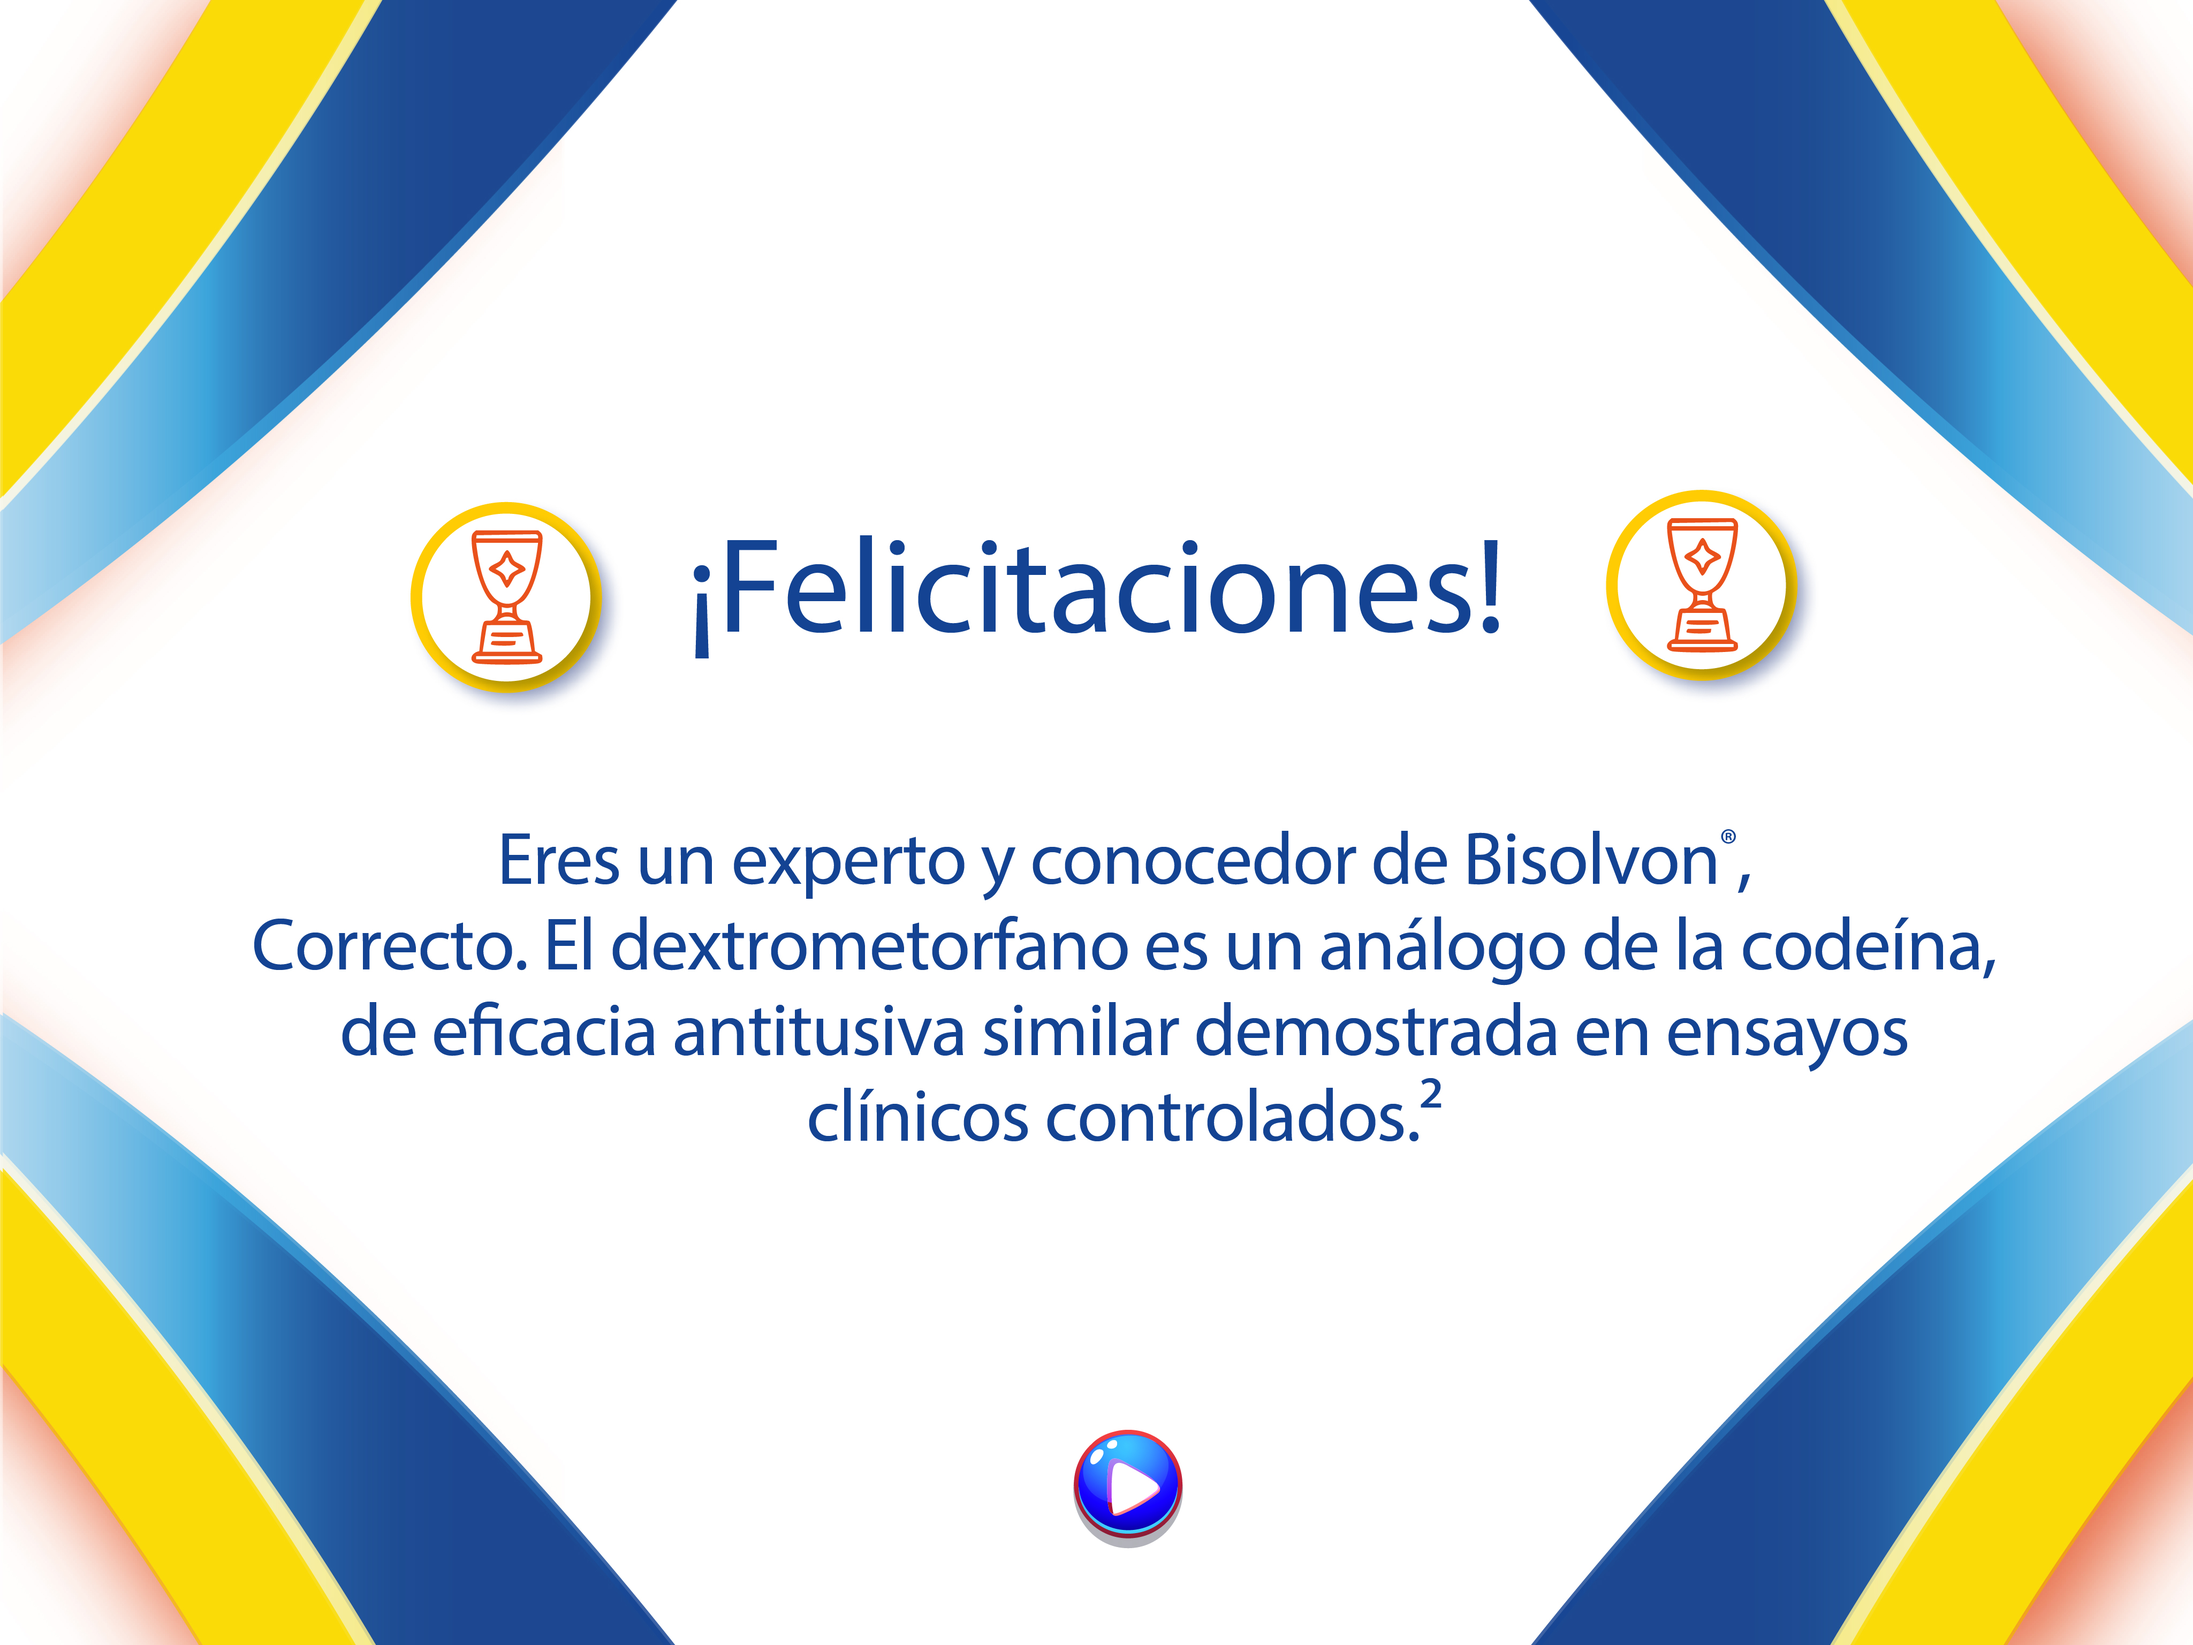
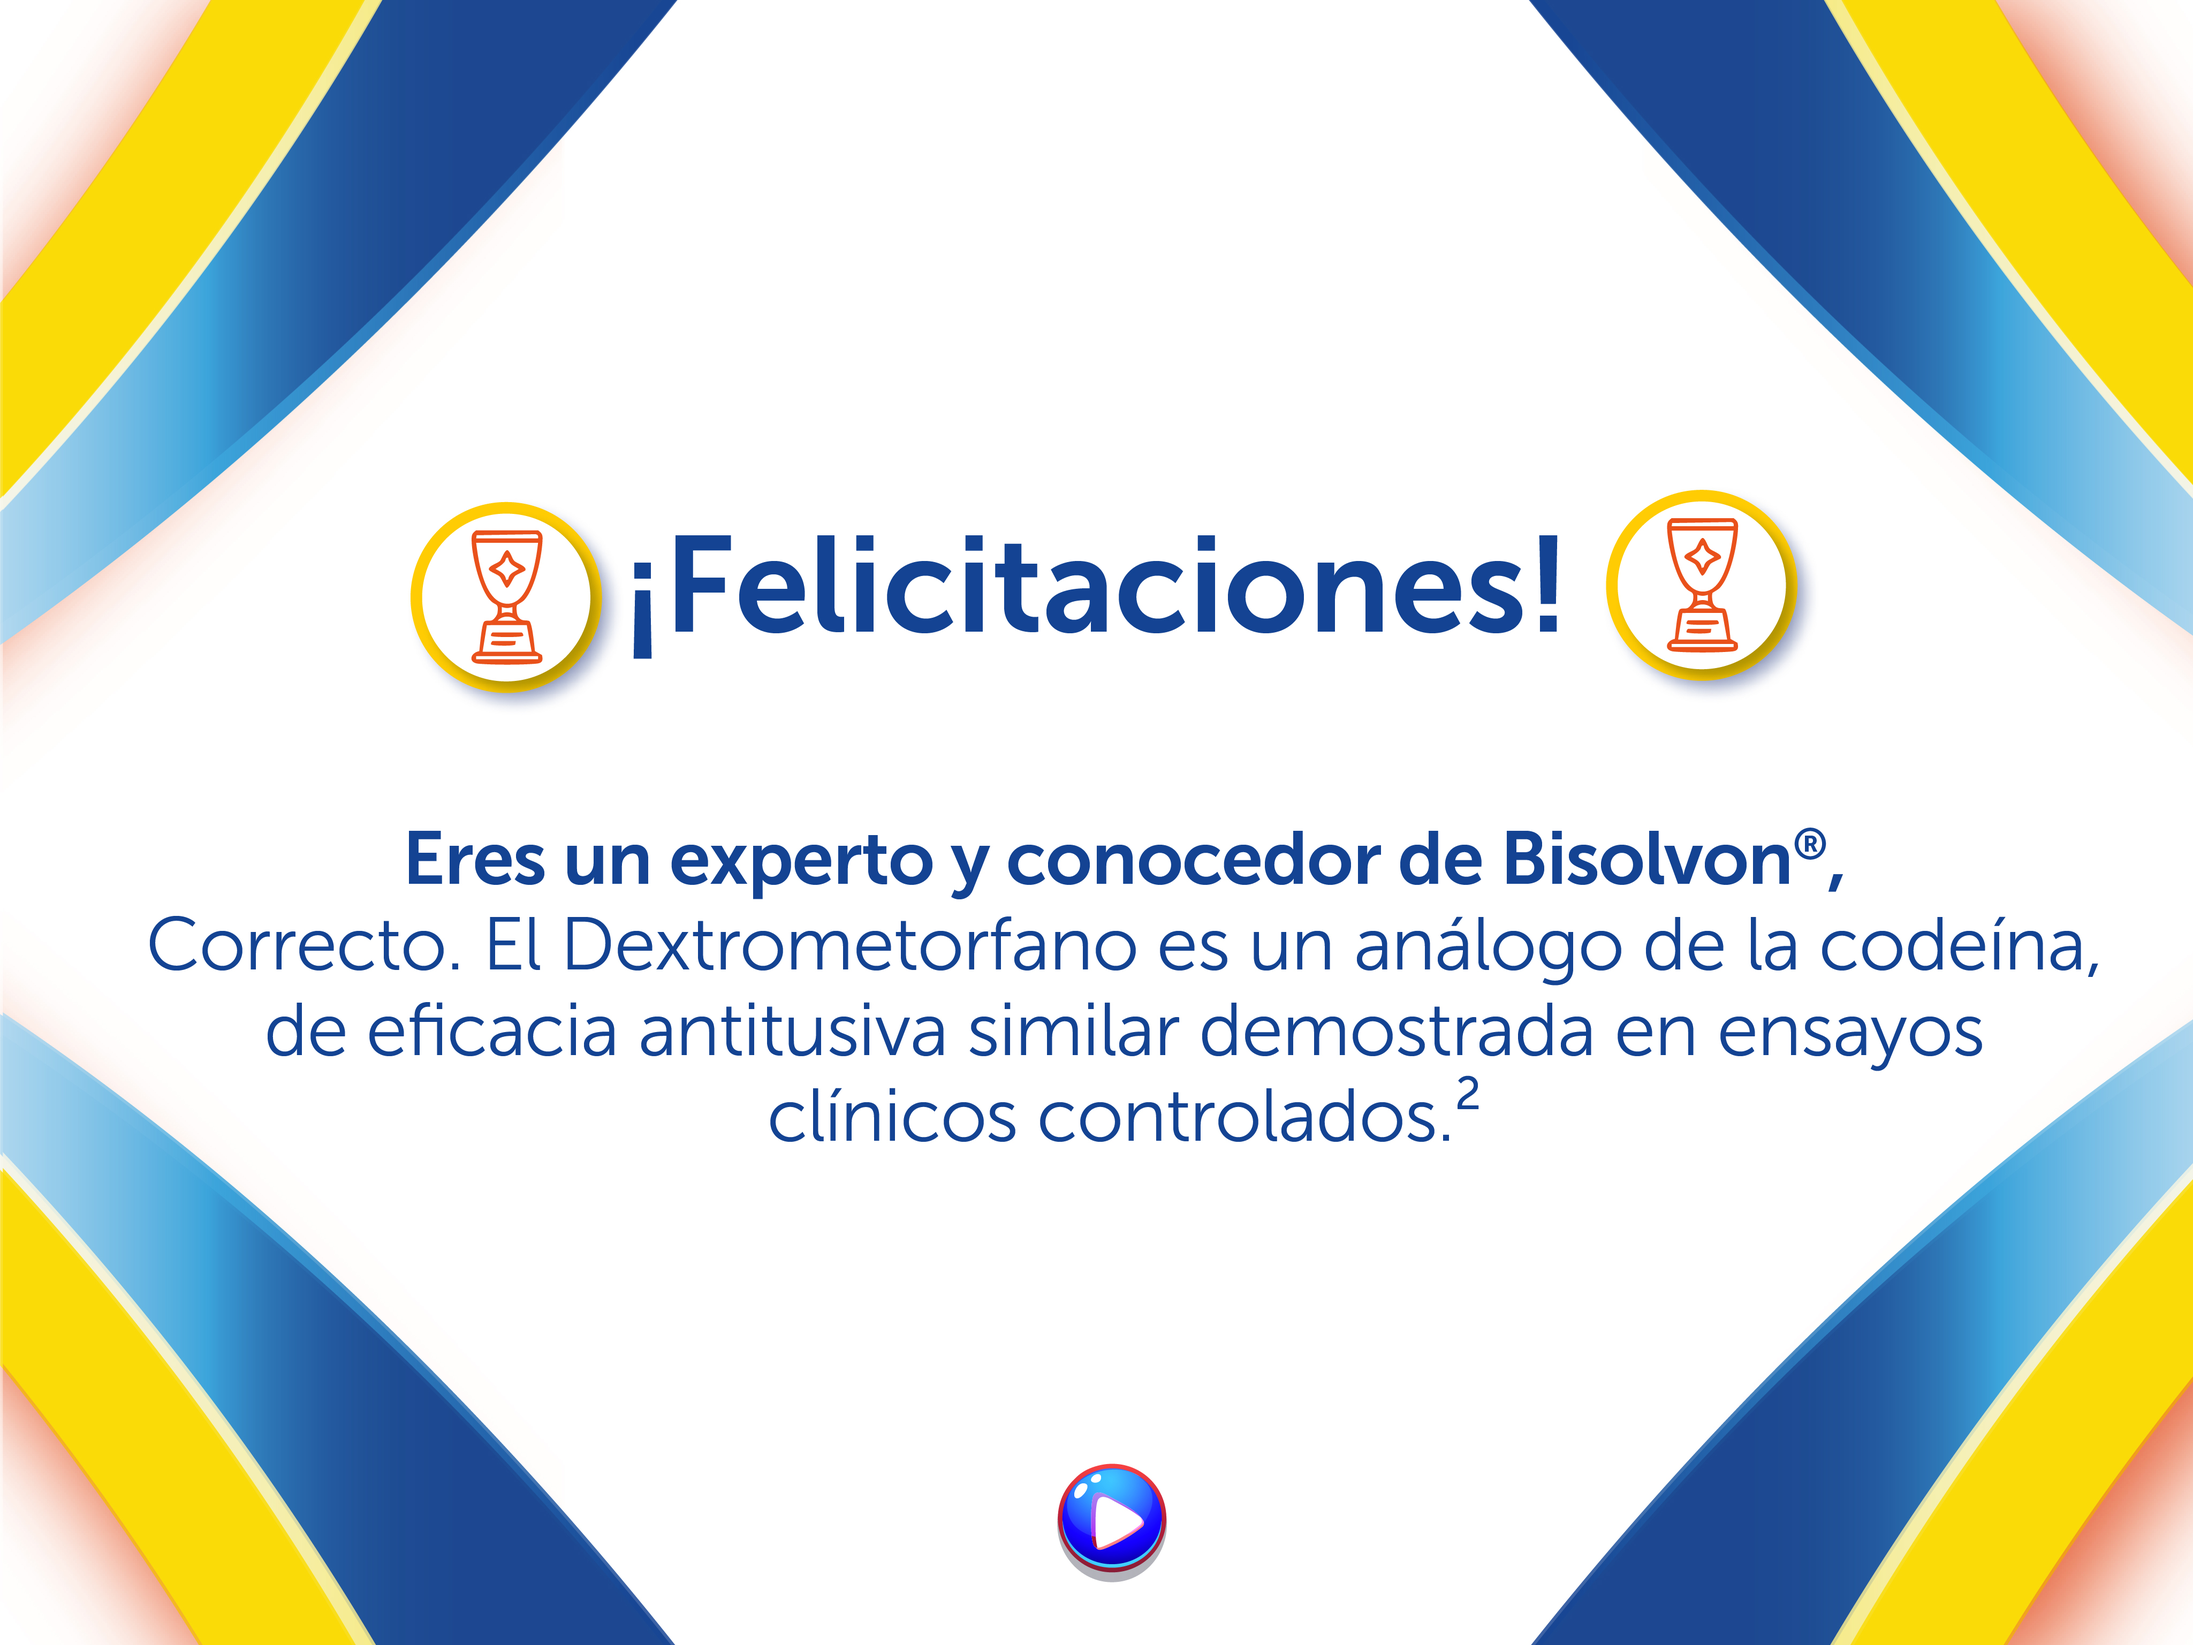
cambios imagenes

Changed region(s): [[0.0625, 0.4998, 0.9685, 0.7185], [0.2812, 0.3124, 0.7186, 0.4061], [0.4686, 0.8435, 0.5624, 0.9684]]

diff --git a/css/style17.css b/css/style17.css
@@ -308,9 +308,9 @@ body {
 	position: absolute;
 	width: 6%;
 	height: 8%;
-	top: 86%;
+	top: 90%;
     border-radius: 100px;
-    right: 46.6%;
+    right: 45.6%;
 	bottom: 2.6%;
 	cursor: pointer;
 	z-index: 1300;
